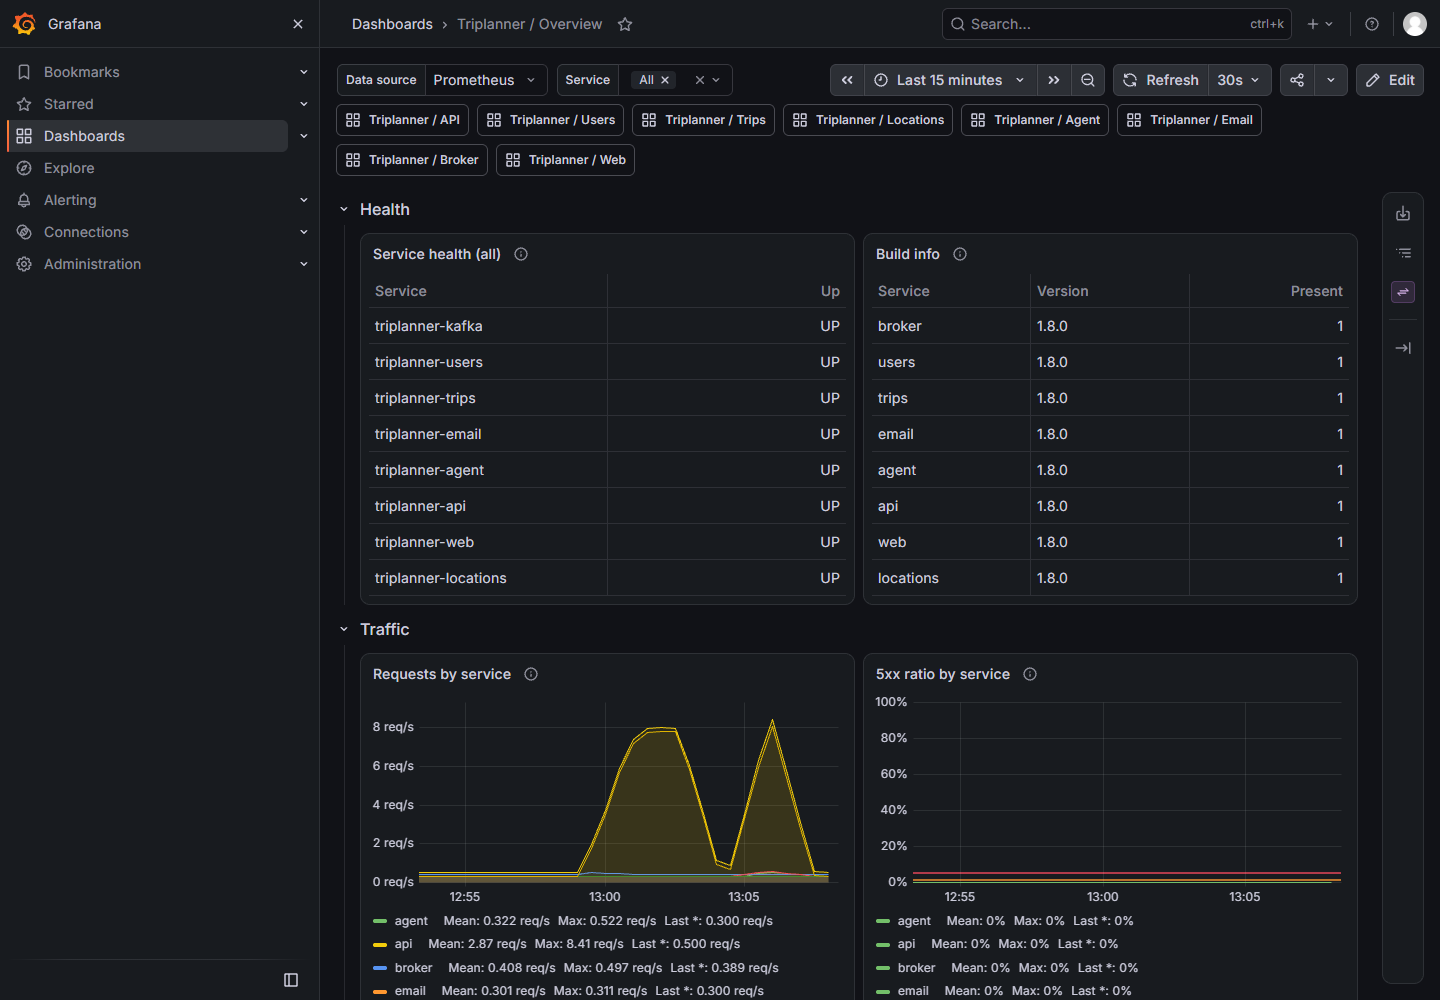
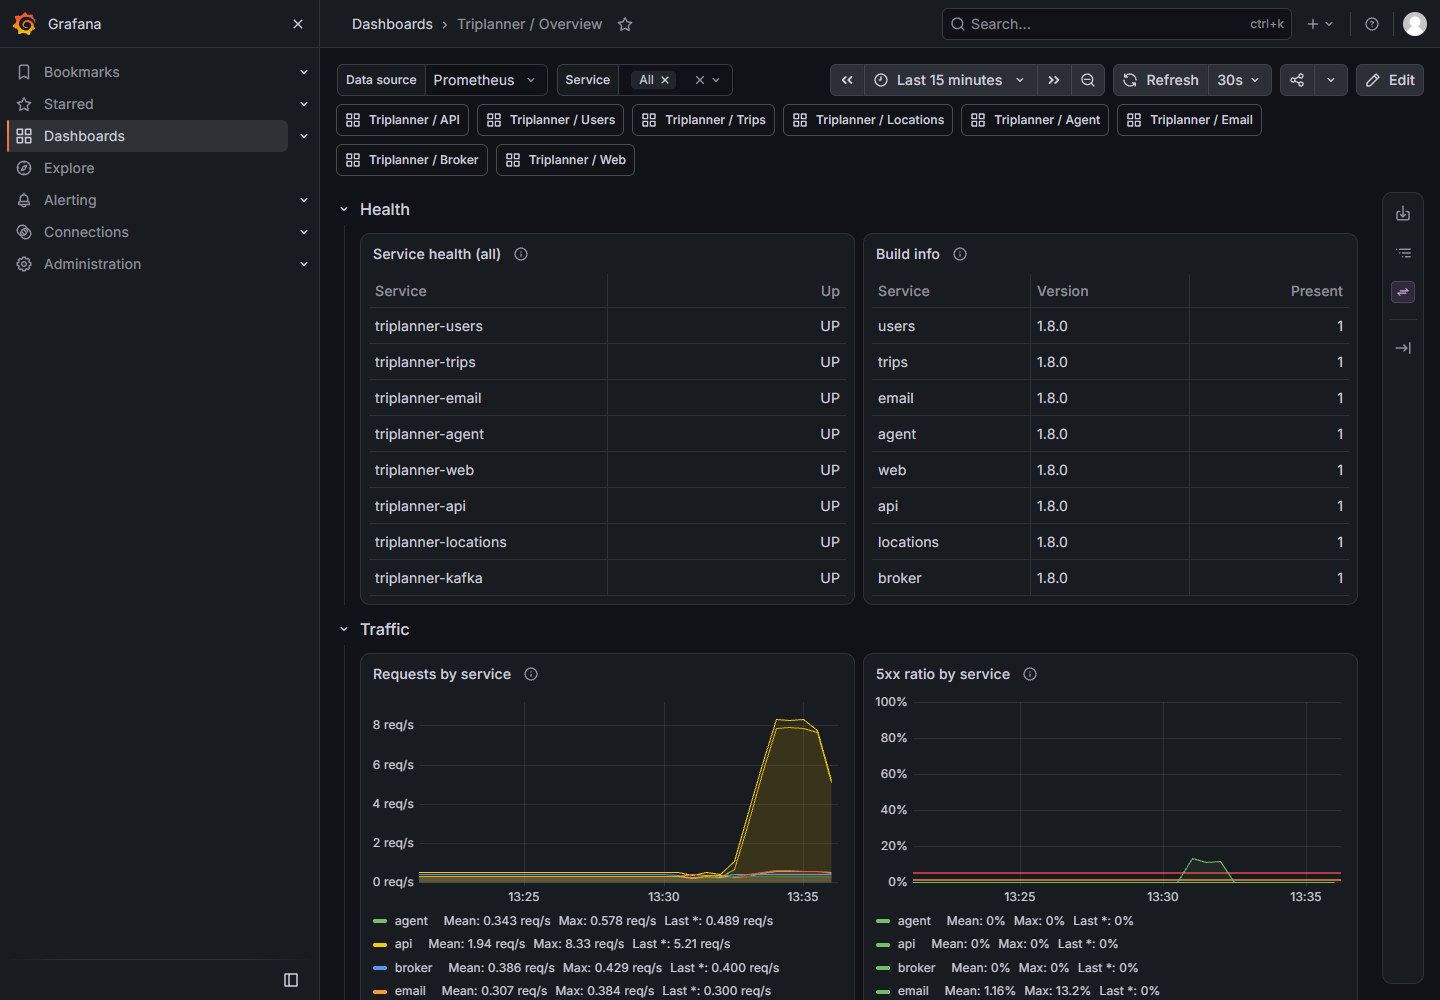
docs(metrics): record the gRPC metrics slice and load evidence

diff --git a/docs/migrations/0028-grpc-metrics.md b/docs/migrations/0028-grpc-metrics.md
@@ -1,0 +1,165 @@
+# 0028 — gRPC server metrics for users, trips and locations
+
+| Field | Value |
+|---|---|
+| Status | **Implemented and verified locally (2026-11-25); merge/release gate pending** |
+| Cycle | Kubernetes Manifest Delivery |
+| Slice | M25 — close the M24 gRPC coverage finding |
+| Chart | `helm-triplanner` 0.19.0 |
+| App version | 1.8.0 (local images `kind-0.19.0`) |
+| Contract | [`0022-metrics.md`](./0022-metrics.md) §3.6 |
+
+## 1. Why
+
+The M24 app-driven load proved that the Web, API, Agent and Broker dashboards
+receive real traffic, but the Users, Trips and Locations dashboards only showed
+`/health` and `/ready` probes. The API facade calls those three services over
+gRPC, and the existing metrics only counted HTTP.
+
+The user selected **Add gRPC metrics next** at the M24 QA gate.
+
+## 2. Contract
+
+New metrics on `users`, `trips` and `locations`:
+
+| Metric | Type | Labels |
+|---|---|---|
+| `triplanner_grpc_requests_total` | counter | `service`, `method`, `status` |
+| `triplanner_grpc_request_duration_seconds` | histogram | `service`, `method`, `status` |
+
+- `method` is the proto method name, e.g. `Login`, `GetTrip`, `Search`. The set
+  is bounded by the proto contract.
+- `status` is the canonical gRPC name (`OK`, `NOT_FOUND`, `UNAUTHENTICATED`,
+  ...), never the raw error message.
+- Buckets match the HTTP histogram:
+  `0.01, 0.05, 0.1, 0.25, 0.5, 1, 2.5, 5, 15, 60`.
+- `grpc.health.v1.Health/Check` is not instrumented, so kubelet probes do not
+  appear as application traffic.
+- The API, Agent, Web, Email and Broker are HTTP-only and do not expose these
+  series.
+
+## 3. Implementation
+
+Each service keeps its own copy of the pattern, matching the existing
+duplicated `metrics.ts` convention:
+
+1. `src/metrics.ts` registers the counter and histogram on the shared registry.
+2. `src/grpc/server.ts` wraps every unary domain handler with
+   `instrumentHandlers()`:
+   - records duration on the first callback invocation,
+   - maps `error.code` or `OK` to a status name,
+   - guards against a double callback,
+   - leaves `bindAsync`, the internal token and `x-error-code` untouched.
+3. Existing `AppError`/`GrpcFailure` mappings are unchanged.
+
+No proto, schema, database or authorization change.
+
+## 4. Dashboards
+
+`scripts/generate-dashboards.py` adds a **gRPC** row to the Users, Trips and
+Locations dashboards:
+
+- `gRPC req/s`, `gRPC p95`, `gRPC error ratio` stats.
+- `gRPC calls by method` and `gRPC calls by status` timeseries.
+
+The Overview dashboard adds `gRPC calls by service` and `gRPC p95 by service`.
+
+The Broker p95 descriptions now state that
+`/v1/topics/{topic}/messages` is a deliberate long-poll (up to 20 s), closing
+the third M24 P3 finding. All dashboards remain schema 41 with the
+`${datasource}` variable and `$__rate_interval`.
+
+## 5. Verification
+
+### 5.1 Tests and typecheck
+
+```text
+users      bun test   76 pass, 0 fail (10 files)
+trips      bun test   77 pass, 0 fail (7 files)
+locations  bun test   43 pass, 1 fail (existing MongoDB catalogue suite;
+                      no Mongo on the test host; gRPC + metrics 11/11 pass)
+users/trips/locations  bunx tsc --noEmit  clean
+```
+
+New integration assertions call a real gRPC server and read the registry:
+successful calls record `status="OK"`, rejected calls record
+`status="UNAUTHENTICATED"` / `status="NOT_FOUND"`, and the label set contains
+`method` and `service`.
+
+### 5.2 Cluster
+
+```text
+helm release triplanner, chart 0.19.0, revision 22, STATUS deployed
+pods 2/2 ready for users, trips and locations
+Prometheus targets 8/8 UP
+```
+
+Raw pod scrapes after a login, trip read and search:
+
+```text
+triplanner_grpc_requests_total{method="Login",status="OK",service="users"} 1
+triplanner_grpc_requests_total{method="ListFavoriteIds",status="OK",service="users"} 1
+triplanner_grpc_requests_total{method="GetTrip",status="OK",service="trips"} 2
+triplanner_grpc_requests_total{method="ListTrips",status="OK",service="trips"} 1
+triplanner_grpc_requests_total{method="Search",status="OK",service="locations"} 1
+```
+
+### 5.3 App-driven load
+
+`scripts/qa-load-traffic.ps1 -DurationSeconds 180 -DelayMs 200 -Invites 3`:
+
+```text
+attempts 1371, errors 0, iterations 304
+agentSuggestions 38, agentDayPlan 12, requestSuggestions 30
+sendTripInvite 3, createTrip 1, deleteTrip 1
+```
+
+Prometheus series after the load:
+
+| Service | gRPC calls | gRPC rate (5m) | gRPC p95 |
+|---|---:|---:|---:|
+| users | 1,068 | 3.506 req/s | 239.73 ms |
+| trips | 748 | 2.673 req/s | 9.50 ms |
+| locations | 376 | 1.283 req/s | 9.53 ms |
+
+Methods observed: `Login` (305), `ListFavoriteIds` (325), `BatchUsers` (355),
+`GetUser` (68), `ListNotifications` (15), `GetTrip` (425), `ListTrips` (305),
+`ListMembers` (3), `CreateInvitation` (3), `DueReminders` (10),
+`CreateTrip` (1), `DeleteTrip` (1), `Search` (305), `ListByParent` (50),
+`ListDestinations` (20), `GetById` (1).
+
+The users p95 is dominated by Argon2id password verification on `Login`.
+
+Dashboard screenshots:
+
+- [Users with gRPC](../images/dashboard-users-grpc.png)
+- [Trips with gRPC](../images/dashboard-trips-grpc.png)
+- [Locations with gRPC](../images/dashboard-locations-grpc.png)
+- [Overview with gRPC](../images/dashboard-overview-loaded.png)
+
+Headless Grafana check: Users, Trips and Locations now render **19 panels**
+each (14 HTTP/runtime + 5 gRPC); the Overview renders the new gRPC row; zero
+browser console errors.
+
+## 6. Cleanup and safety
+
+- Temporary trip `2b5a91b1-b670-4a2b-a533-85b5c40d50e6` was deleted
+  (`TRIP_NOT_FOUND`).
+- Demo trip remains **Dec 4–6, 2026**.
+- No secrets, tokens, user IDs, trip IDs, emails or usernames are used as
+  labels.
+- Grafana and Prometheus remain ClusterIP-only.
+- Images are local `kind-0.19.0`; nothing was pushed or published.
+
+## 7. Rollback
+
+Revert chart 0.19.0 to 0.18.0 and deploy the previous image tag. The new
+metrics are additive; dashboards referencing them would show `No data` until
+the services are rolled forward again. No schema or data change is involved.
+
+## 8. Follow-ups
+
+- Publish images and tag the release when the human release gate opens.
+- Optional domain counters remain candidates (email deliveries, broker
+  published/acked, agent LLM calls).
+- PostgreSQL/MongoDB exporters and alert rules remain open observability work.

diff --git a/AGENTS.md b/AGENTS.md
@@ -217,9 +217,17 @@ auth and Dockerfiles.
 - M24 Prometheus data-load QA (2026-11-25): `scripts/qa-load-traffic.ps1`
   drove 1,346 GraphQL calls and 26 agent calls with 0 errors, populated the
   Web/API/Agent/Broker dashboards and generated invitations. Users/Trips/
-  Locations show probe-only traffic because the API uses gRPC; track gRPC
+  Locations showed probe-only traffic because the API uses gRPC; track gRPC
   metrics as the follow-up. Evidence:
   `docs/migrations/0027-prometheus-data-load.md`.
+- M25 gRPC metrics (2026-11-25): users, trips and locations expose
+  `triplanner_grpc_requests_total{method,status}` and
+  `triplanner_grpc_request_duration_seconds`; dashboards add a gRPC row and
+  the overview adds gRPC panels. Chart 0.19.0, images `kind-0.19.0`, revision
+  22, targets 8/8. A 1,371-call load recorded 1,068 users, 748 trips and 376
+  locations gRPC calls with 0 errors; the broker long-poll p95 note is in the
+  dashboard descriptions. Evidence:
+  `docs/migrations/0028-grpc-metrics.md`.
 - M15 done (`feature/grpc-api`): native gRPC between the API facade and the
   users/trips/locations services, with `x-internal-token`/`x-actor-id`
   metadata, `grpc.health.v1.Health`, stable `x-error-code` mapping and

diff --git a/docs/migrations/0022-metrics.md b/docs/migrations/0022-metrics.md
@@ -144,6 +144,25 @@ Per service:
 - No label may contain an unbounded value.
 - A repeated request to the same route must not create new series.
 
+### 3.6 gRPC server metrics (M25 addendum)
+
+`users`, `trips` and `locations` also serve the API facade over gRPC. Their
+HTTP counters only see probes on the internal HTTP port, so they expose:
+
+| Metric | Type | Labels | Meaning |
+|---|---|---|---|
+| `triplanner_grpc_requests_total` | counter | `service`, `method`, `status` | Completed unary gRPC calls |
+| `triplanner_grpc_request_duration_seconds` | histogram | `service`, `method`, `status` | gRPC call duration |
+
+- `method` is the proto method name (`Login`, `GetTrip`, `Search`, ...). It is
+  bounded by the service contract; never use metadata or request values.
+- `status` is the canonical gRPC status name (`OK`, `NOT_FOUND`,
+  `UNAUTHENTICATED`, ...).
+- The same buckets as the HTTP histogram are used.
+- A wrapper instruments every unary domain handler; `grpc.health.v1.Health`
+  is not instrumented, so probes do not inflate application traffic.
+- `agent` is HTTP-only and does not expose these metrics.
+
 ## 4. Per-runtime implementation
 
 ### 4.1 `web` (Next.js)

diff --git a/docs/migrations/0027-prometheus-data-load.md b/docs/migrations/0027-prometheus-data-load.md
@@ -102,7 +102,8 @@ trip reads or searches.
 **Recommendation:** add gRPC server interceptors with
 `triplanner_grpc_requests_total{service,method,status}` and
 `triplanner_grpc_request_duration_seconds`, then add the corresponding
-dashboard panels.
+dashboard panels. **Resolved in
+[`0028-grpc-metrics.md`](./0028-grpc-metrics.md).**
 
 ### P3 — email dashboard only sees HTTP probes
 

diff --git a/docs/migrations/README.md b/docs/migrations/README.md
@@ -54,6 +54,8 @@ Migrations:
   Grafana skills and the dashboard redesign
 - [`0027-prometheus-data-load.md`](./0027-prometheus-data-load.md) — QA traffic
   load and the gRPC metrics coverage finding
+- [`0028-grpc-metrics.md`](./0028-grpc-metrics.md) — gRPC server metrics for
+  users, trips and locations; dashboards and load evidence
 
 ## Branching (local only)
 
